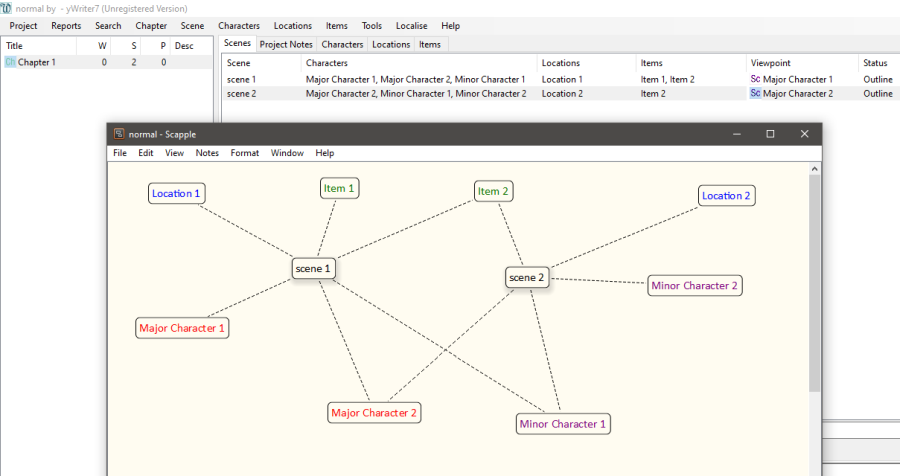
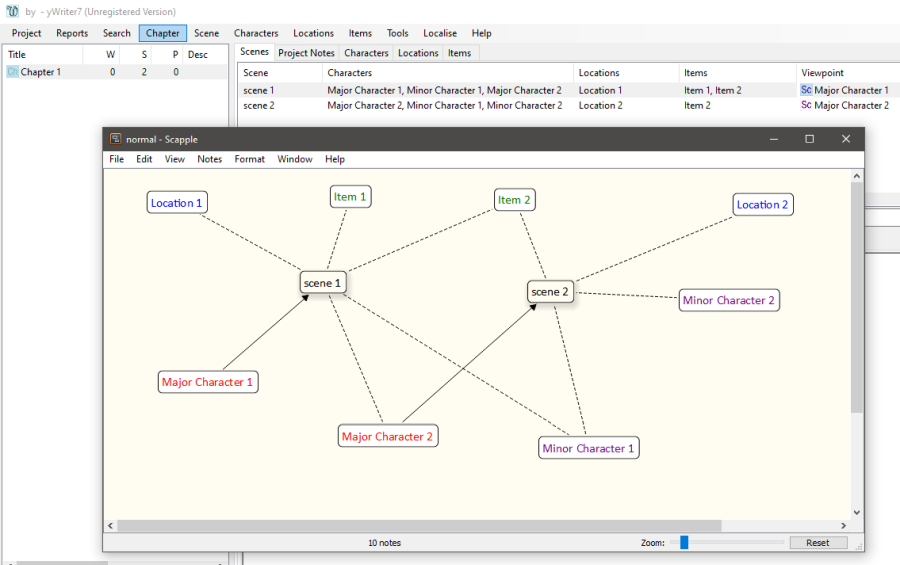
Prepare v0.2.0 based on PyWriter v3.18.1
- Define viewpoint characters.
- Scene status is "Outline".

diff --git a/src/pyScapple/scap_note.py b/src/pyScapple/scap_note.py
@@ -42,19 +42,41 @@ class ScapNote():
         # Create a list of connected notes.
 
         self.connections = []
-        connText = xmlNote.find('ConnectedNoteIDs').text
-        connGroups = connText.split(', ')
 
-        for conn in connGroups:
+        if xmlNote.find('ConnectedNoteIDs') is not None:
+            connGroups = xmlNote.find('ConnectedNoteIDs').text.split(', ')
 
-            if '-' in conn:
-                conns = conn.split('-')
-                start = int(conns[0]) + 1
-                end = int(conns[1]) + 2
+            for connText in connGroups:
 
-                for i in range(start, end):
+                if '-' in connText:
+                    conns = connText.split('-')
+                    start = int(conns[0]) + 1
+                    end = int(conns[1]) + 2
+
+                    for i in range(start, end):
+                        self.connections.append(str(i))
+
+                else:
+                    i = int(connText) + 1
                     self.connections.append(str(i))
 
-            else:
-                i = int(conn) + 1
-                self.connections.append(str(i))
+        # Create a list of notes pointed to.
+
+        self.pointTo = []
+
+        if xmlNote.find('PointsToNoteIDs') is not None:
+            pointGroups = xmlNote.find('PointsToNoteIDs').text.split(', ')
+
+            for pointText in pointGroups:
+
+                if '-' in pointText:
+                    points = pointText.split('-')
+                    start = int(points[0]) + 1
+                    end = int(points[1]) + 2
+
+                    for i in range(start, end):
+                        self.pointTo.append(str(i))
+
+                else:
+                    i = int(pointText) + 1
+                    self.pointTo.append(str(i))

diff --git a/src/pyScapple/scap_file.py b/src/pyScapple/scap_file.py
@@ -79,8 +79,10 @@ class ScapFile(Novel):
 
                 if self.exportScenes:
                     scene = Scene()
-
                     scene.title = note.text
+                    scene.status = 1
+                    # Status = Outline
+
                     self.scenes[note.uid] = scene
                     self.chapters[chId].srtScenes.append(note.uid)
 
@@ -128,7 +130,12 @@ class ScapFile(Novel):
             for uid in scapNotes[scId].connections:
 
                 if uid in self.characters:
-                    self.scenes[scId].characters.append(uid)
+
+                    if scId in scapNotes[uid].pointTo:
+                        self.scenes[scId].characters.insert(0, uid)
+
+                    else:
+                        self.scenes[scId].characters.append(uid)
 
                 elif uid in self.locations:
                     self.scenes[scId].locations.append(uid)

diff --git a/test/test_scappex.py b/test/test_scappex.py
@@ -91,7 +91,6 @@ class NormalOperation(unittest.TestCase):
         self.assertEqual(read_file(TEST_YW7), read_file(NORMAL_YW7))
 
     def tearDown(self):
-        return
         remove_all_testfiles()
 
 

diff --git a/docs/index.md b/docs/index.md
@@ -17,9 +17,9 @@ Generate a yWriter 7 project from a Scapple outline.
 
 ## Download and install
 
-[Download the latest release (version 0.1.0)](https://raw.githubusercontent.com/peter88213/scappex/main/dist/scappex_v0.1.0.zip)
+[Download the latest release (version 0.2.0)](https://raw.githubusercontent.com/peter88213/scappex/main/dist/scappex_v0.2.0.zip)
 
-- Unzip the downloaded zipfile "scappex_v0.1.0.zip" into a new folder.
+- Unzip the downloaded zipfile "scappex_v0.2.0.zip" into a new folder.
 - Move into this new folder and launch **install.bat**. This installs the script for the local user.
 - Create a shortcut on the desktop when asked.
 - Open "README.md" for usage instructions.

diff --git a/docs/changelog.md b/docs/changelog.md
@@ -6,5 +6,5 @@
 
 ### v0.2.0 Beta test release
 
-Based on PyWriter v3.18.0
+Based on PyWriter v3.18.1
 
